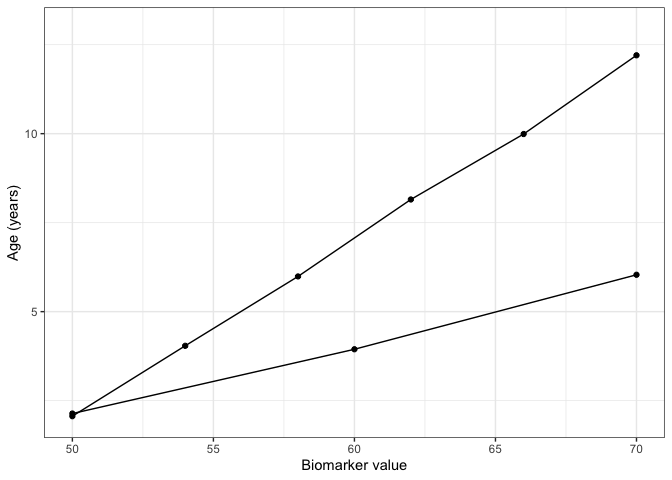
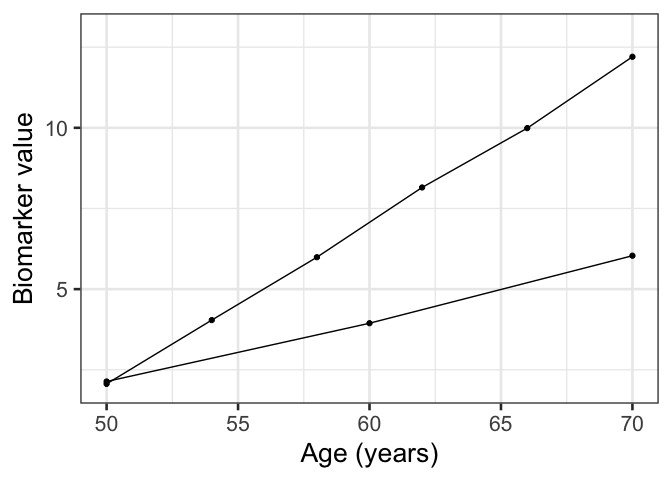
fix: axis labels

diff --git a/README.md b/README.md
@@ -61,9 +61,9 @@ ggplot(df, aes(x = age, y = val, group = subid)) +
   geom_line() +
   xlim(c(50, 70)) +
   ylim(c(2, 13)) +
-  xlab("Biomarker value") +
-  ylab("Age (years)") +
-  theme_bw()
+  xlab("Age (years)") +
+  ylab("Biomarker value") +
+  theme_bw(base_size = 20)
 ```
 
 <div class="figure">
@@ -82,9 +82,9 @@ ggplot(res$tout, aes(x = adtime, y = val)) +
   geom_line() +
   xlim(c(0, 20)) +
   ylim(c(2, 13)) +
-  xlab("Biomarker value") +
-  ylab("Adjusted time (years)") +
-  theme_bw()
+  xlab("Adjusted time (years)") +
+  ylab("Biomarker value") +
+  theme_bw(base_size = 20)
 ```
 
 <div class="figure">
@@ -106,5 +106,4 @@ This repo follows the [Conventional
 Commits](https://www.conventionalcommits.org/en/v1.0.0/#summary)
 specification for commit messages. Pre-commit will automatically check
 your commit message and fail your commit if your commit message doesn’t
-conform to the specification. If you don’t set up pre-commit or skip it,
-a CI job will check it for you when you make a pull request.
+conform to the specification.
